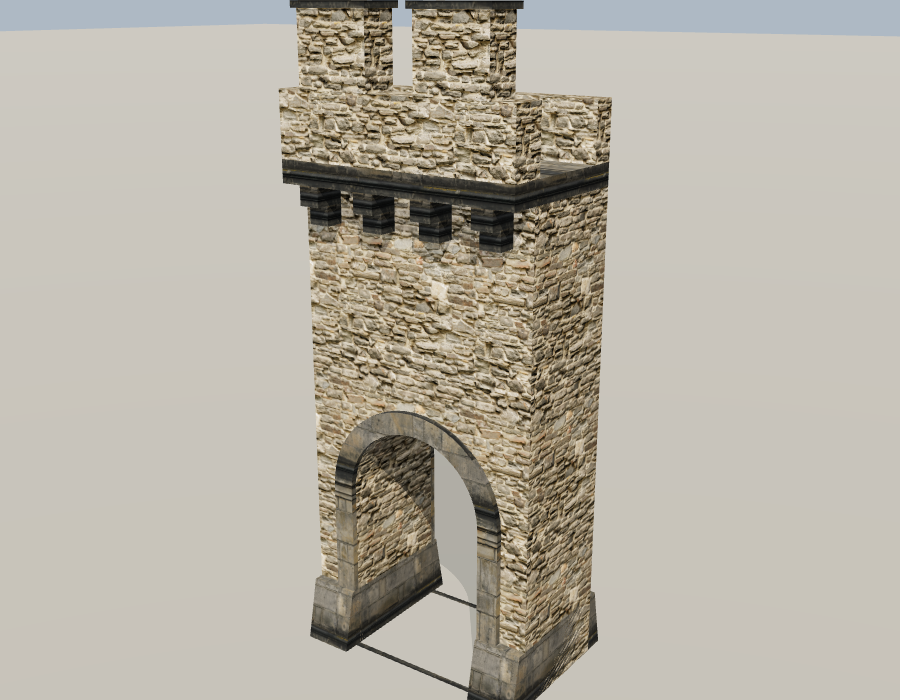
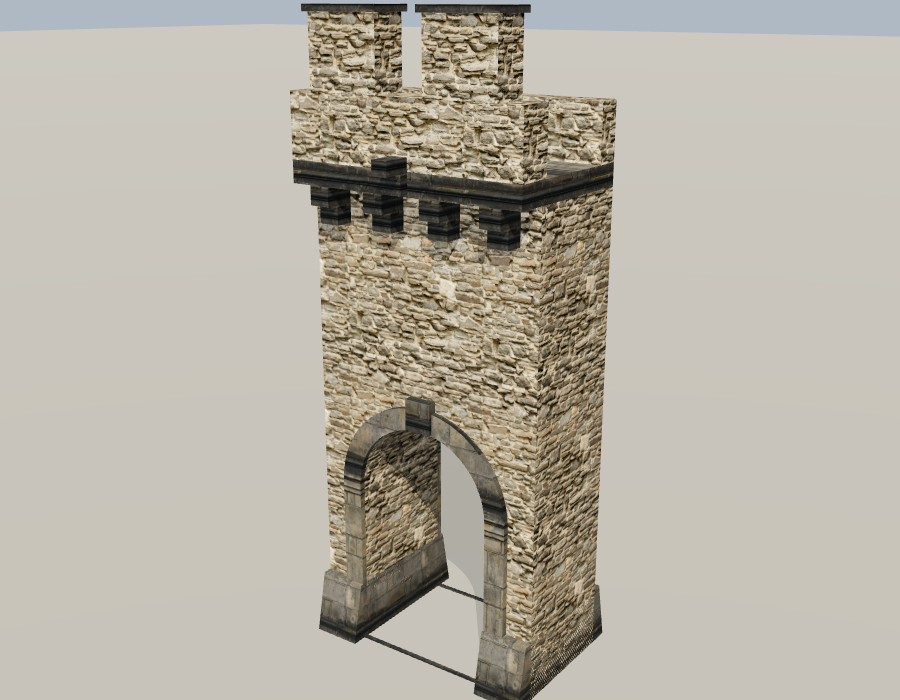
Refine kit, round 2: keystones, water spouts, gilt finial, belt course, gatehouse machicolation
Keystones on both arch walls, a stone drain spout on crenellated walls, gilt ball and vane on the roofed tower, a belt course on the square tower, a machicolation with corbels and drop slots over the gate, dressed frames on the gatehouse windows and iron portcullis guide rails. README documents the kit, its conventions and the build commands.

Changed region(s): [[0.3111, 0.0, 0.6844, 1.0]]

diff --git a/src/modules/gate.js b/src/modules/gate.js
@@ -6,7 +6,7 @@
 
 import * as THREE from 'three';
 import * as G from '../lib/geo.js';
-import { DIM, newBuilder, corbelRow, archRing, merlon, quoins } from '../lib/kit.js';
+import { DIM, newBuilder, corbelRow, archRing, merlon, quoins, slitFrame } from '../lib/kit.js';
 
 const W = 8;
 const D = 6;
@@ -40,6 +40,27 @@ function gateBody(b) {
   b.add('dressed', archRing(PASS, 0.4, 0.12), [0, 0, -D / 2], Math.PI);
   // quoins on the four corners, stopping below the corbel tables
   for (const sx of [-1, 1]) for (const sz of [-1, 1]) quoins(b, (sx * W) / 2, (sz * D) / 2, sx, sz, 1.1, BODY_H - 1.0);
+  // dressed frames around the upper windows: outer face first, then the courtyard face (rotated half a turn)
+  for (const x of [-2.6, 2.6]) {
+    slitFrame(b, x, 7.3, 0.9, 1.8, D / 2, { f: 0.2, proud: 0.08 });
+    b.push([0, 0, 0], Math.PI);
+    slitFrame(b, -x, 7.3, 0.9, 1.8, D / 2, { f: 0.2, proud: 0.08 });
+    b.pop();
+  }
+  // iron guide rails for the portcullis on both passage walls
+  for (const sx of [-1, 1]) b.add('iron', G.block(0.14, 2.4, 0.24), [sx * 1.73, 0, D / 2 - 1.2]);
+  machicolation(b);
+}
+
+/** Machicolation over the gate on the outer face: corbels, a floor with two drop slots and a closing wall. */
+function machicolation(b) {
+  const y = 8.6; // top of the corbels
+  corbelRow(b, 'dressed', [-1.5, D / 2], [1, 0], 5, 0.75, [0, 1], y, { size: 0.4, proj: 0.8 });
+  for (const [x0, x1] of [[-1.9, -0.75], [-0.45, 0.45], [0.75, 1.9]]) {
+    b.add('dressed', G.block(x1 - x0, 0.2, 0.9), [(x0 + x1) / 2, y, D / 2 + 0.45]);
+  }
+  b.add('stone', G.block(3.8, 1.0, 0.3), [0, y + 0.2, D / 2 + 0.75]);
+  for (const sx of [-1, 1]) b.add('stone', G.block(0.3, 1.0, 0.6), [sx * 1.75, y + 0.2, D / 2 + 0.3]);
 }
 
 /** Overhanging walkway on corbels (deeper on the outer face) with a merlon parapet all round. */

diff --git a/src/modules/wall.js b/src/modules/wall.js
@@ -58,11 +58,21 @@ function battlementCorner(b, y = H) {
   merlon(b, t, DIM.merlonW, [z, y + p, -1]);
 }
 
+/** Stone drain spout through the outer parapet at x: a cantilevered block on a small corbel. */
+function waterSpout(b, x) {
+  const z = PARAPET_Z + DIM.parapetT / 2; // outer face of the parapet
+  b.add('dressed', G.block(0.26, 0.22, 0.6), [x, H - 0.02, z + 0.15]);
+  b.add('dressed', G.block(0.26, 0.3, 0.3), [x, H - 0.32, z]);
+}
+
 /** Coping slab, corbel table and (optionally) the parapets on top of a straight wall. */
 function wallTop(b, len, { battlement = true, innerParapet = true } = {}) {
   b.add('dressed', G.block(len, DIM.coping, T + DIM.slabOut), [0, BODY_H, DIM.slabOut / 2]);
   corbelRow(b, 'dressed', [-len / 2 + 0.5, T / 2], [1, 0], Math.round(len), 1, [0, 1], BODY_H);
-  if (battlement) battlementStraight(b, len);
+  if (battlement) {
+    battlementStraight(b, len);
+    waterSpout(b, 0); // sits in the gap between the two merlons
+  }
   if (innerParapet) b.add('stone', G.block(len, 0.9, 0.4), [0, H, -T / 2 + 0.2]);
 }
 
@@ -96,6 +106,8 @@ function archModule(id, name, description, o) {
       wallBody(b, len, { openings: [o], plinth: [[-len / 2, -o.w / 2 - 0.0], [o.w / 2, len / 2]] });
       b.add('dressed', archRing(o), [0, 0, T / 2]);
       b.add('dressed', archRing(o), [0, 0, -T / 2], Math.PI);
+      // keystones: start at the crown of the opening and stand 0.15 m proud of the wall on both faces
+      for (const s of [-1, 1]) b.add('dressed', G.block(0.45, 0.5, 0.3), [0, o.h, (s * T) / 2]);
       wallTop(b, len);
       return b.build(id);
     },

diff --git a/src/modules/tower.js b/src/modules/tower.js
@@ -53,7 +53,8 @@ function roundTop(b, roofed) {
     soffit.rotateX(Math.PI / 2);
     b.add('timber', G.boxUV(soffit), [0, H - 0.2, 0]);
     b.add('iron', G.cylinder(0.05, 0.08, 1.8, 6), [0, H + 7.0, 0]);
-    b.add('iron', new THREE.SphereGeometry(0.16, 12, 8), [0, H + 8.9, 0]);
+    b.add('gilt', new THREE.SphereGeometry(0.2, 16, 12), [0, H + 8.9, 0]);
+    b.add('iron', G.box(0.7, 0.3, 0.02), [0.4, H + 8.45, 0]); // small weather vane
     return;
   }
   // corbel ring under the overhanging walkway
@@ -126,6 +127,9 @@ function squareTower(b) {
   const plinth = G.block(S + 0.4, 1.0, S + 0.4);
   b.add('dressed', G.boxUV(G.carve(plinth, [G.openingCutter(DOOR, 1.5).applyMatrix4(fm('n'))])));
   b.add('dressed', archRing(DOOR_RING, 0.3, 0.12), [0, 0, -S / 2], Math.PI);
+  // string course (belt) below the wall-walk doorways; the x-face pieces stop short of the corners to avoid coplanar overlap
+  for (const z of [-1, 1]) b.add('dressed', G.block(S + 0.2, 0.25, 0.2), [0, 6.6, (z * S) / 2]);
+  for (const x of [-1, 1]) b.add('dressed', G.block(0.2, 0.25, S - 0.2), [(x * S) / 2, 6.6, 0]);
   // quoins on the four corners (stopping below the corbel tables) and iron straps across the courtyard door
   for (const sx of [-1, 1]) for (const sz of [-1, 1]) quoins(b, (sx * S) / 2, (sz * S) / 2, sx, sz, 1.1, BODY_H - 0.8);
   for (const yy of [0.7, 1.6]) b.add('iron', G.box(1.5, 0.12, 0.05).translate(0, yy, -0.94).applyMatrix4(fm('n')));

diff --git a/src/lib/kit.js b/src/lib/kit.js
@@ -33,6 +33,7 @@ export function makeMaterials() {
     iron: pbr('rusty_metal_03', { metalness: 1, color: 0x9a9a9a }),
     // double-sided: hip and cone roofs are thin shells that are also seen from below
     roof: pbr('roof_slates_02', { side: THREE.DoubleSide }),
+    gilt: new THREE.MeshStandardMaterial({ name: 'gilt', color: 0xb8923a, metalness: 1, roughness: 0.35 }),
     void: new THREE.MeshStandardMaterial({ name: 'void', color: 0x050505, roughness: 1 }),
   };
 }
